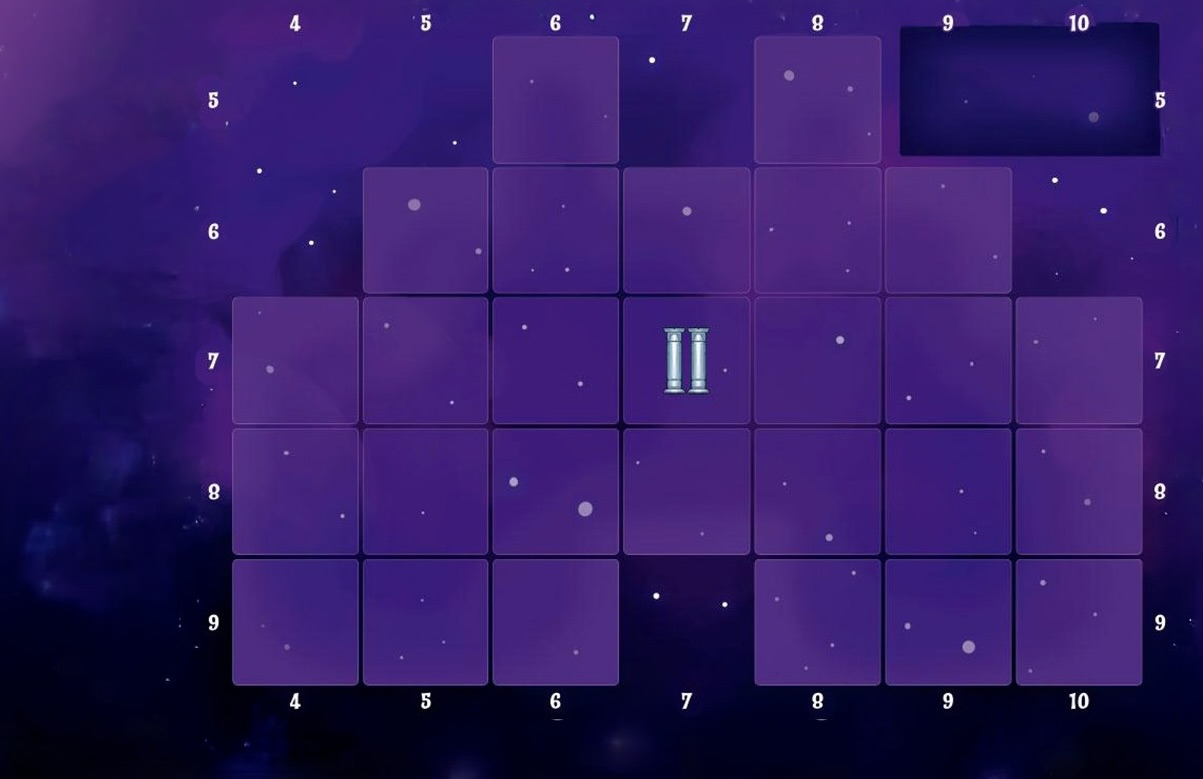
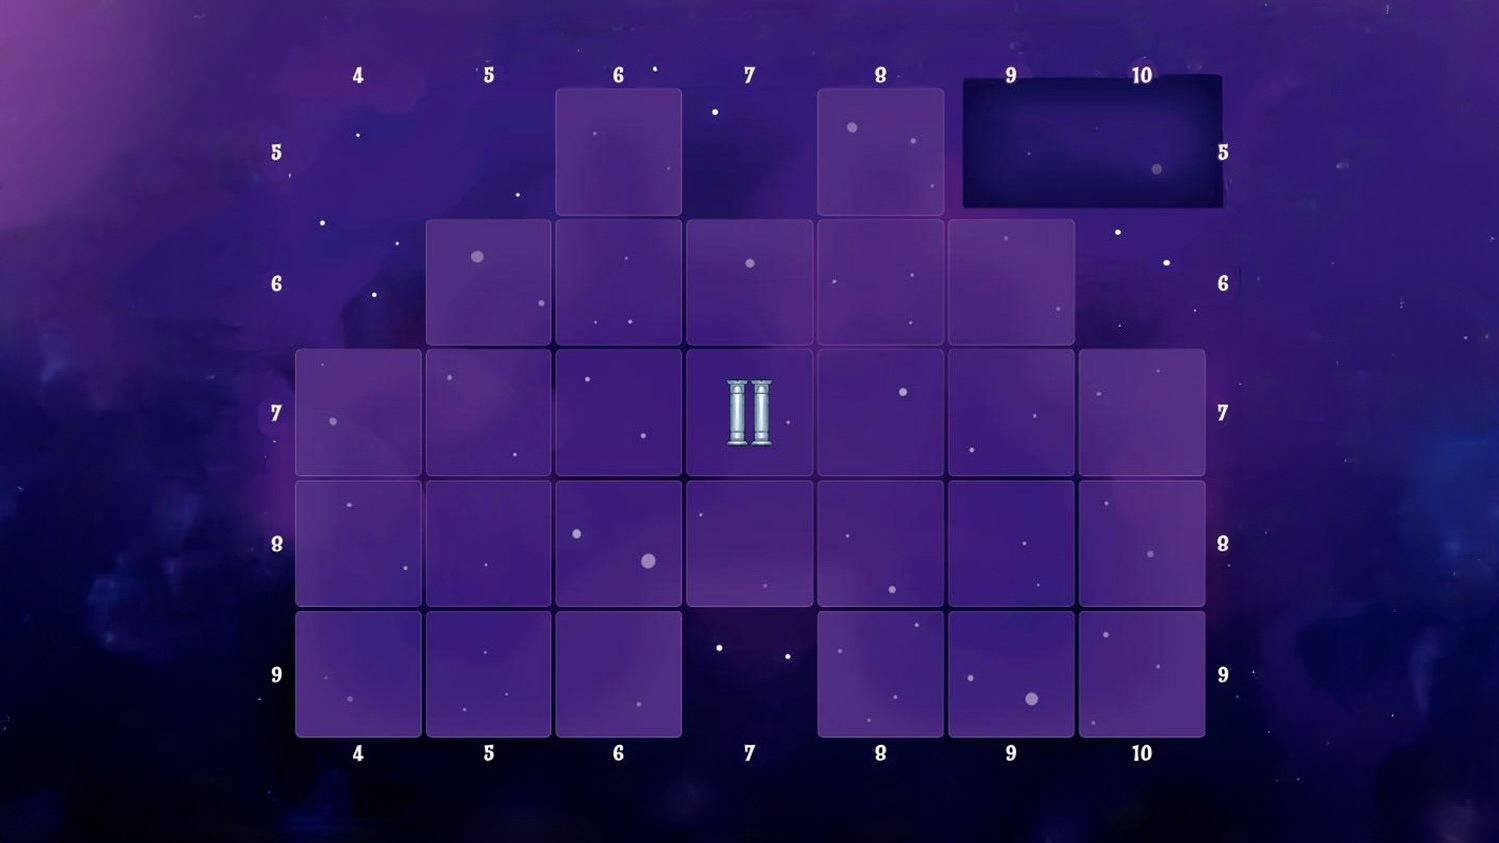
updates

diff --git a/GalaxyTrucker/src/main/java/it/polimi/ingsw/view/graphic/scenes/BuildingScene.java b/GalaxyTrucker/src/main/java/it/polimi/ingsw/view/graphic/scenes/BuildingScene.java
@@ -73,31 +73,31 @@ public class BuildingScene {
         ImageView backgroundView = new ImageView(backgroundImage);
         backgroundView.setFitWidth(width);
         backgroundView.setFitHeight(height);
-        backgroundView.setPreserveRatio(false);
+        backgroundView.setPreserveRatio(true);
         backgroundView.setMouseTransparent(true);
 
         // Griglia nave
         grid = new GridPane();
-        grid.setHgap(2);
-        grid.setVgap(2);
-        grid.setAlignment(Pos.TOP_LEFT);
-        grid.setTranslateX(164.5);
-        grid.setTranslateY(25);
+        grid.setHgap(3.5);
+        grid.setVgap(3.5);
+        grid.setAlignment(Pos.CENTER);
+        grid.setTranslateX(1);
+        grid.setTranslateY(-10);
 
         for (int row = 5; row < 10; row++) {
             for (int col = 4; col < 11; col++) {
                 StackPane cell = new StackPane();
-                cell.setPrefSize(90, 90);
+                cell.setPrefSize(136, 136);
 
                 if (validCells[row][col]) {
-                    cell.setStyle("-fx-border-color: white; -fx-border-radius: 3px; -fx-background-radius: 3px;");
+                    cell.setStyle("-fx-border-color: white; -fx-border-radius: 6px; -fx-background-radius: 6px;");
 
                     Component c = layout[row][col];
                     if (c != null) {
                         ImageView imageView = new ImageView(c.getFrontImage());
-                        imageView.setFitWidth(90);
-                        imageView.setFitHeight(89);
-                        Rectangle clip = new Rectangle(89, 89);
+                        imageView.setFitWidth(136);
+                        imageView.setFitHeight(136);
+                        Rectangle clip = new Rectangle(136, 136);
                         clip.setArcWidth(6);
                         clip.setArcHeight(6);
                         imageView.setClip(clip);
@@ -114,34 +114,34 @@ public class BuildingScene {
         }
 
         // Slot vuoti per i kept
-        keptSlots = new HBox(10);
+        keptSlots = new HBox(15);
         keptSlots.setMaxWidth(200);
         keptSlots.setAlignment(Pos.TOP_RIGHT);
         keptSlotsRef.clear();
         keptImages.clear();
 
-        for (int i = 0; i < 2; i++) {
-            StackPane slot = new StackPane();
-            slot.setPrefSize(70, 70);
-            slot.setMinSize(70, 70);
-            slot.setMaxSize(70, 70);
-            slot.setStyle("-fx-background-color: transparent;");
+        if(!keptSlotsRef.isEmpty()) {
+            for (int i = 0; i < 2; i++) {
+                StackPane slot = new StackPane();
+                slot.setPrefSize(110, 110);
+                slot.setStyle("-fx-background-color: transparent;");
 
-            Rectangle border = new Rectangle(70, 70);
-            border.setArcWidth(3);
-            border.setArcHeight(3);
-            border.setFill(Color.TRANSPARENT);
-            border.setStroke(Color.WHITE);
-            border.setStrokeWidth(2);
+                Rectangle border = new Rectangle(110, 110);
+                border.setArcWidth(6);
+                border.setArcHeight(6);
+                border.setFill(Color.TRANSPARENT);
+                border.setStroke(Color.WHITE);
+                border.setStrokeWidth(2);
 
-            slot.getChildren().add(border);
-            keptSlots.getChildren().add(slot);
-            keptSlotsRef.add(slot);
-            keptImages.add(null);  // Nessuna immagine inizialmente
+                slot.getChildren().add(border);
+                keptSlots.getChildren().add(slot);
+                keptSlotsRef.add(slot);
+                keptImages.add(null);  // Nessuna immagine inizialmente
+            }
+
+            StackPane.setAlignment(keptSlots, Pos.TOP_RIGHT);
+            StackPane.setMargin(keptSlots, new Insets(0, 235, 590, 0));
         }
-
-        StackPane.setAlignment(keptSlots, Pos.TOP_RIGHT);
-        StackPane.setMargin(keptSlots, new Insets(30, 50, 0, 0));
 
         StackPane root = new StackPane(backgroundView, grid, keptSlots);
         scene = new Scene(root, width, height);

diff --git a/GalaxyTrucker/src/main/java/it/polimi/ingsw/view/graphic/GUIApplication.java b/GalaxyTrucker/src/main/java/it/polimi/ingsw/view/graphic/GUIApplication.java
@@ -92,21 +92,21 @@ public class GUIApplication extends Application {
         //gui.colorAlreadyTaken(new ColorAlreadyInError(PlayerColors.RED, EnumSet.of(PlayerColors.GREEN, PlayerColors.BLUE, PlayerColors.YELLOW)));ù
 
 
-//        BuildingScene buildingScene = new BuildingScene(trucker.getNickname(),trucker.getSpaceShip().getComponents(), viewFlow); // assicurati che esista questa classe
-//        Scene scene = buildingScene.createScene();
-//
-//        primaryStage.setScene(scene);
-//        primaryStage.setResizable(true);
-//        primaryStage.setFullScreen(true);
-//        primaryStage.setTitle("Test Building Scene");
-//        primaryStage.show();
+        BuildingScene buildingScene = new BuildingScene(trucker.getNickname(),trucker.getSpaceShip().getComponents(), viewFlow); // assicurati che esista questa classe
+        Scene scene = buildingScene.createScene();
 
-        LoginScene loginScene = new LoginScene(EnumSet.allOf(PlayerColors.class), viewFlow);
-
-        primaryStage.setScene(loginScene.createScene());
-        primaryStage.setResizable(true);        // ← abilita ridimensionamento
-        primaryStage.setFullScreen(true); // ← facoltativo, se in fullscreen
+        primaryStage.setScene(scene);
+        primaryStage.setResizable(true);
+        primaryStage.setFullScreen(true);
+        primaryStage.setTitle("Test Building Scene");
         primaryStage.show();
+
+//        LoginScene loginScene = new LoginScene(EnumSet.allOf(PlayerColors.class), viewFlow);
+//
+//        primaryStage.setScene(loginScene.createScene());
+//        primaryStage.setResizable(true);        // ← abilita ridimensionamento
+//        primaryStage.setFullScreen(true); // ← facoltativo, se in fullscreen
+//        primaryStage.show();
     }
 
     public static void main(String[] args) {
